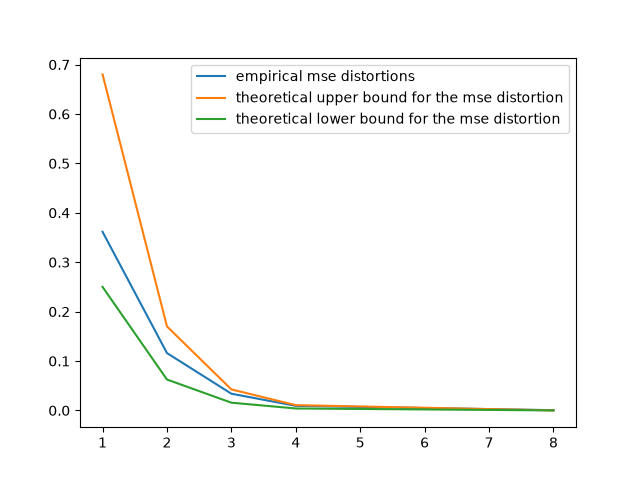
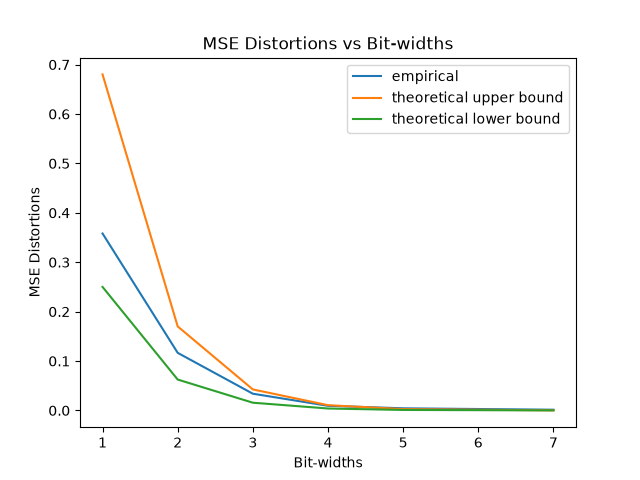
refactor eval_quant_model to improve MSE distortion evaluation and update plotting labels

diff --git a/evals.py b/evals.py
@@ -1,11 +1,12 @@
 import polars as pl
 import pandas as pd
 import numpy as np
-from quantizers import TurboQuantMSE, TurboQuantProd
+from quantizers import TurboQuantMSE
 from metrics import compute_mse
 from datasets import load_dataset
 import matplotlib.pyplot as plt
 import math 
+import warnings
 
 def eval_quant_model(X, bit_widths, model, lowerbound_mse, upperbound_mse):
     d = X.shape[-1]
@@ -14,23 +15,31 @@ def eval_quant_model(X, bit_widths, model, lowerbound_mse, upperbound_mse):
     for b in bit_widths:
         print(f"Evaluating QuantMSE for bit-width={b}...")
         quant_mse = model(dim=d, bit_width=b)
-        idx = quant_mse.quantize(sample_emb)
-        sample_emb_approx = quant_mse.dequantize(idx)
-        mse = compute_mse(sample_emb, sample_emb_approx)
+        idx = quant_mse.quantize(X)
+
+        X_approx = quant_mse.dequantize(idx)
+        mse = compute_mse(X, X_approx)
         mse_distortions.append(mse)
 
-    plt.plot(bit_widths, mse_distortions, label="empirical mse distortions")
+    plt.plot(
+        bit_widths,
+        mse_distortions,
+        label="empirical"
+    )
     plt.plot(
         bit_widths,
         upperbound_mse(bit_widths),
-        label="theoretical upper bound for the mse distortion",
+        label="theoretical upper bound",
     )
     plt.plot(
         bit_widths,
         lowerbound_mse(bit_widths),
-        label="theoretical lower bound for the mse distortion",
+        label="theoretical lower bound",
     )
     plt.legend()
+    plt.xlabel("Bit-widths")
+    plt.ylabel("MSE Distortions")
+    plt.title("MSE Distortions vs Bit-widths")
     plt.savefig("eval_quant_mse.png")
 
 def load_data():
@@ -56,14 +65,16 @@ def load_data():
 
     return sample_emb
 
-if __name__ == "__main__":
-    
+def main():
     sample_emb = load_data()
-    bit_widths = np.array([1, 2, 3, 4, 8])
+    bit_widths = np.array([1, 2, 3, 4, 5, 7])
 
     lowerbound_mse = lambda b : 1/ (4**b)
     upperbound_mse = lambda b : math.sqrt(3) * math.pi / (2 * (4**b))
     quant_model = TurboQuantMSE
 
-    eval_quant_model(sample_emb, bit_widths, quant_model, lowerbound_mse, upperbound_mse)
+    eval_quant_model(sample_emb, bit_widths, quant_model, lowerbound_mse, upperbound_mse)    
 
+if __name__ == "__main__":
+    main()
+    
